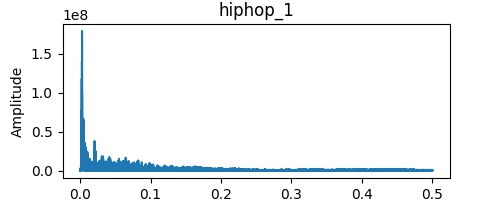
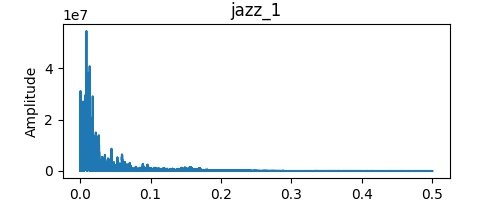
Add img folder

diff --git a/main.py b/main.py
@@ -13,15 +13,15 @@ class MainWindow():
     def __init__(self, main):
 
         # Nos variables
-        lst = ["jazz_1", "jazz_2", "metal_1", "metal_2", "blues_1", "blues_2", "classical_1", "classical_2", "country_1", "country_2", "disco_1", "disco_2", "hiphop_1", "hiphop_2", "metal_1", "metal_2", "pop_1", "pop_2", "rock_1", "rock_2"]
+        lst = ["jazz_1", "jazz_2", "metal_1", "metal_2", "blues_1", "blues_2", "classical_1", "classical_2", "country_1", "country_2", "disco_1", "disco_2", "hiphop_1", "hiphop_2", "pop_1", "pop_2", "rock_1", "rock_2"]
         music1 = StringVar()
         music1.set("jazz_1")
         music2 = StringVar()
-        music2.set("jazz_1")
+        music2.set("hiphop_1")
 
         # Initialisation de nos graphes
         tabplot1 = fft.plot("jazz_1", 1)
-        tabplot2 = fft.plot("jazz_2", 2)
+        tabplot2 = fft.plot("hiphop_1", 2)
         self.joinPlot()
         self.myPlot = self.returnPicture("myplots.jpg")
 
